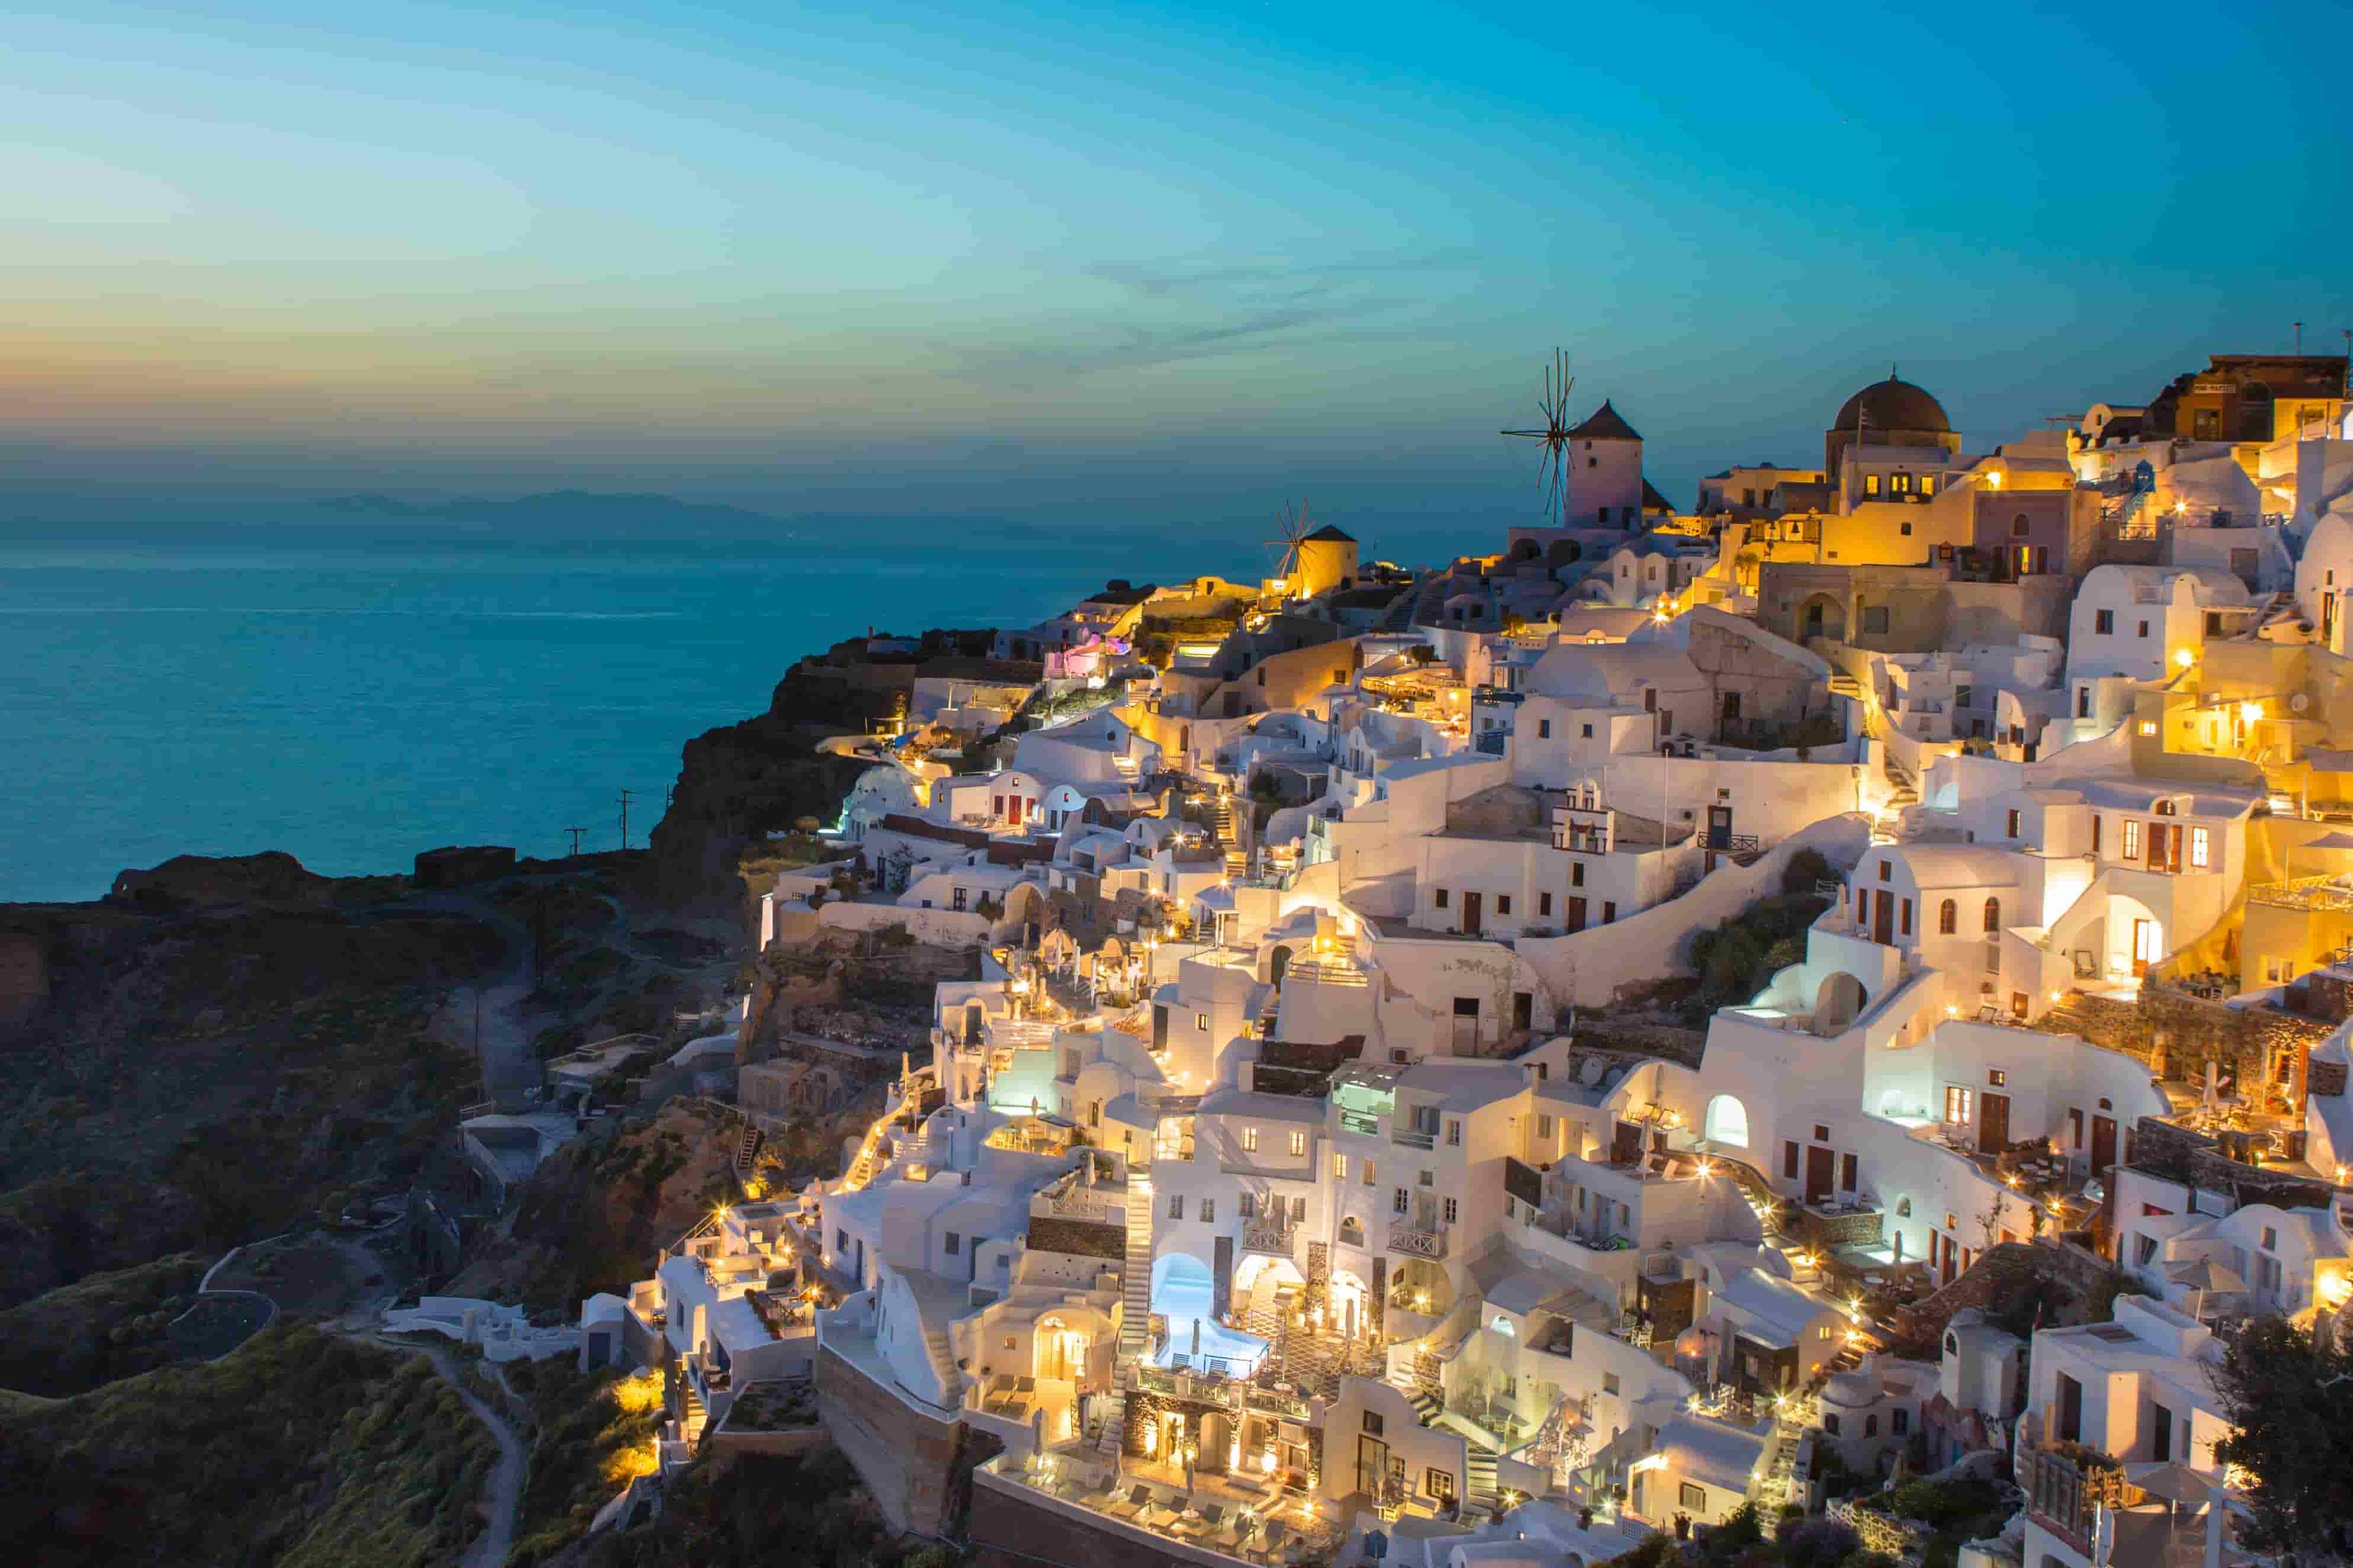
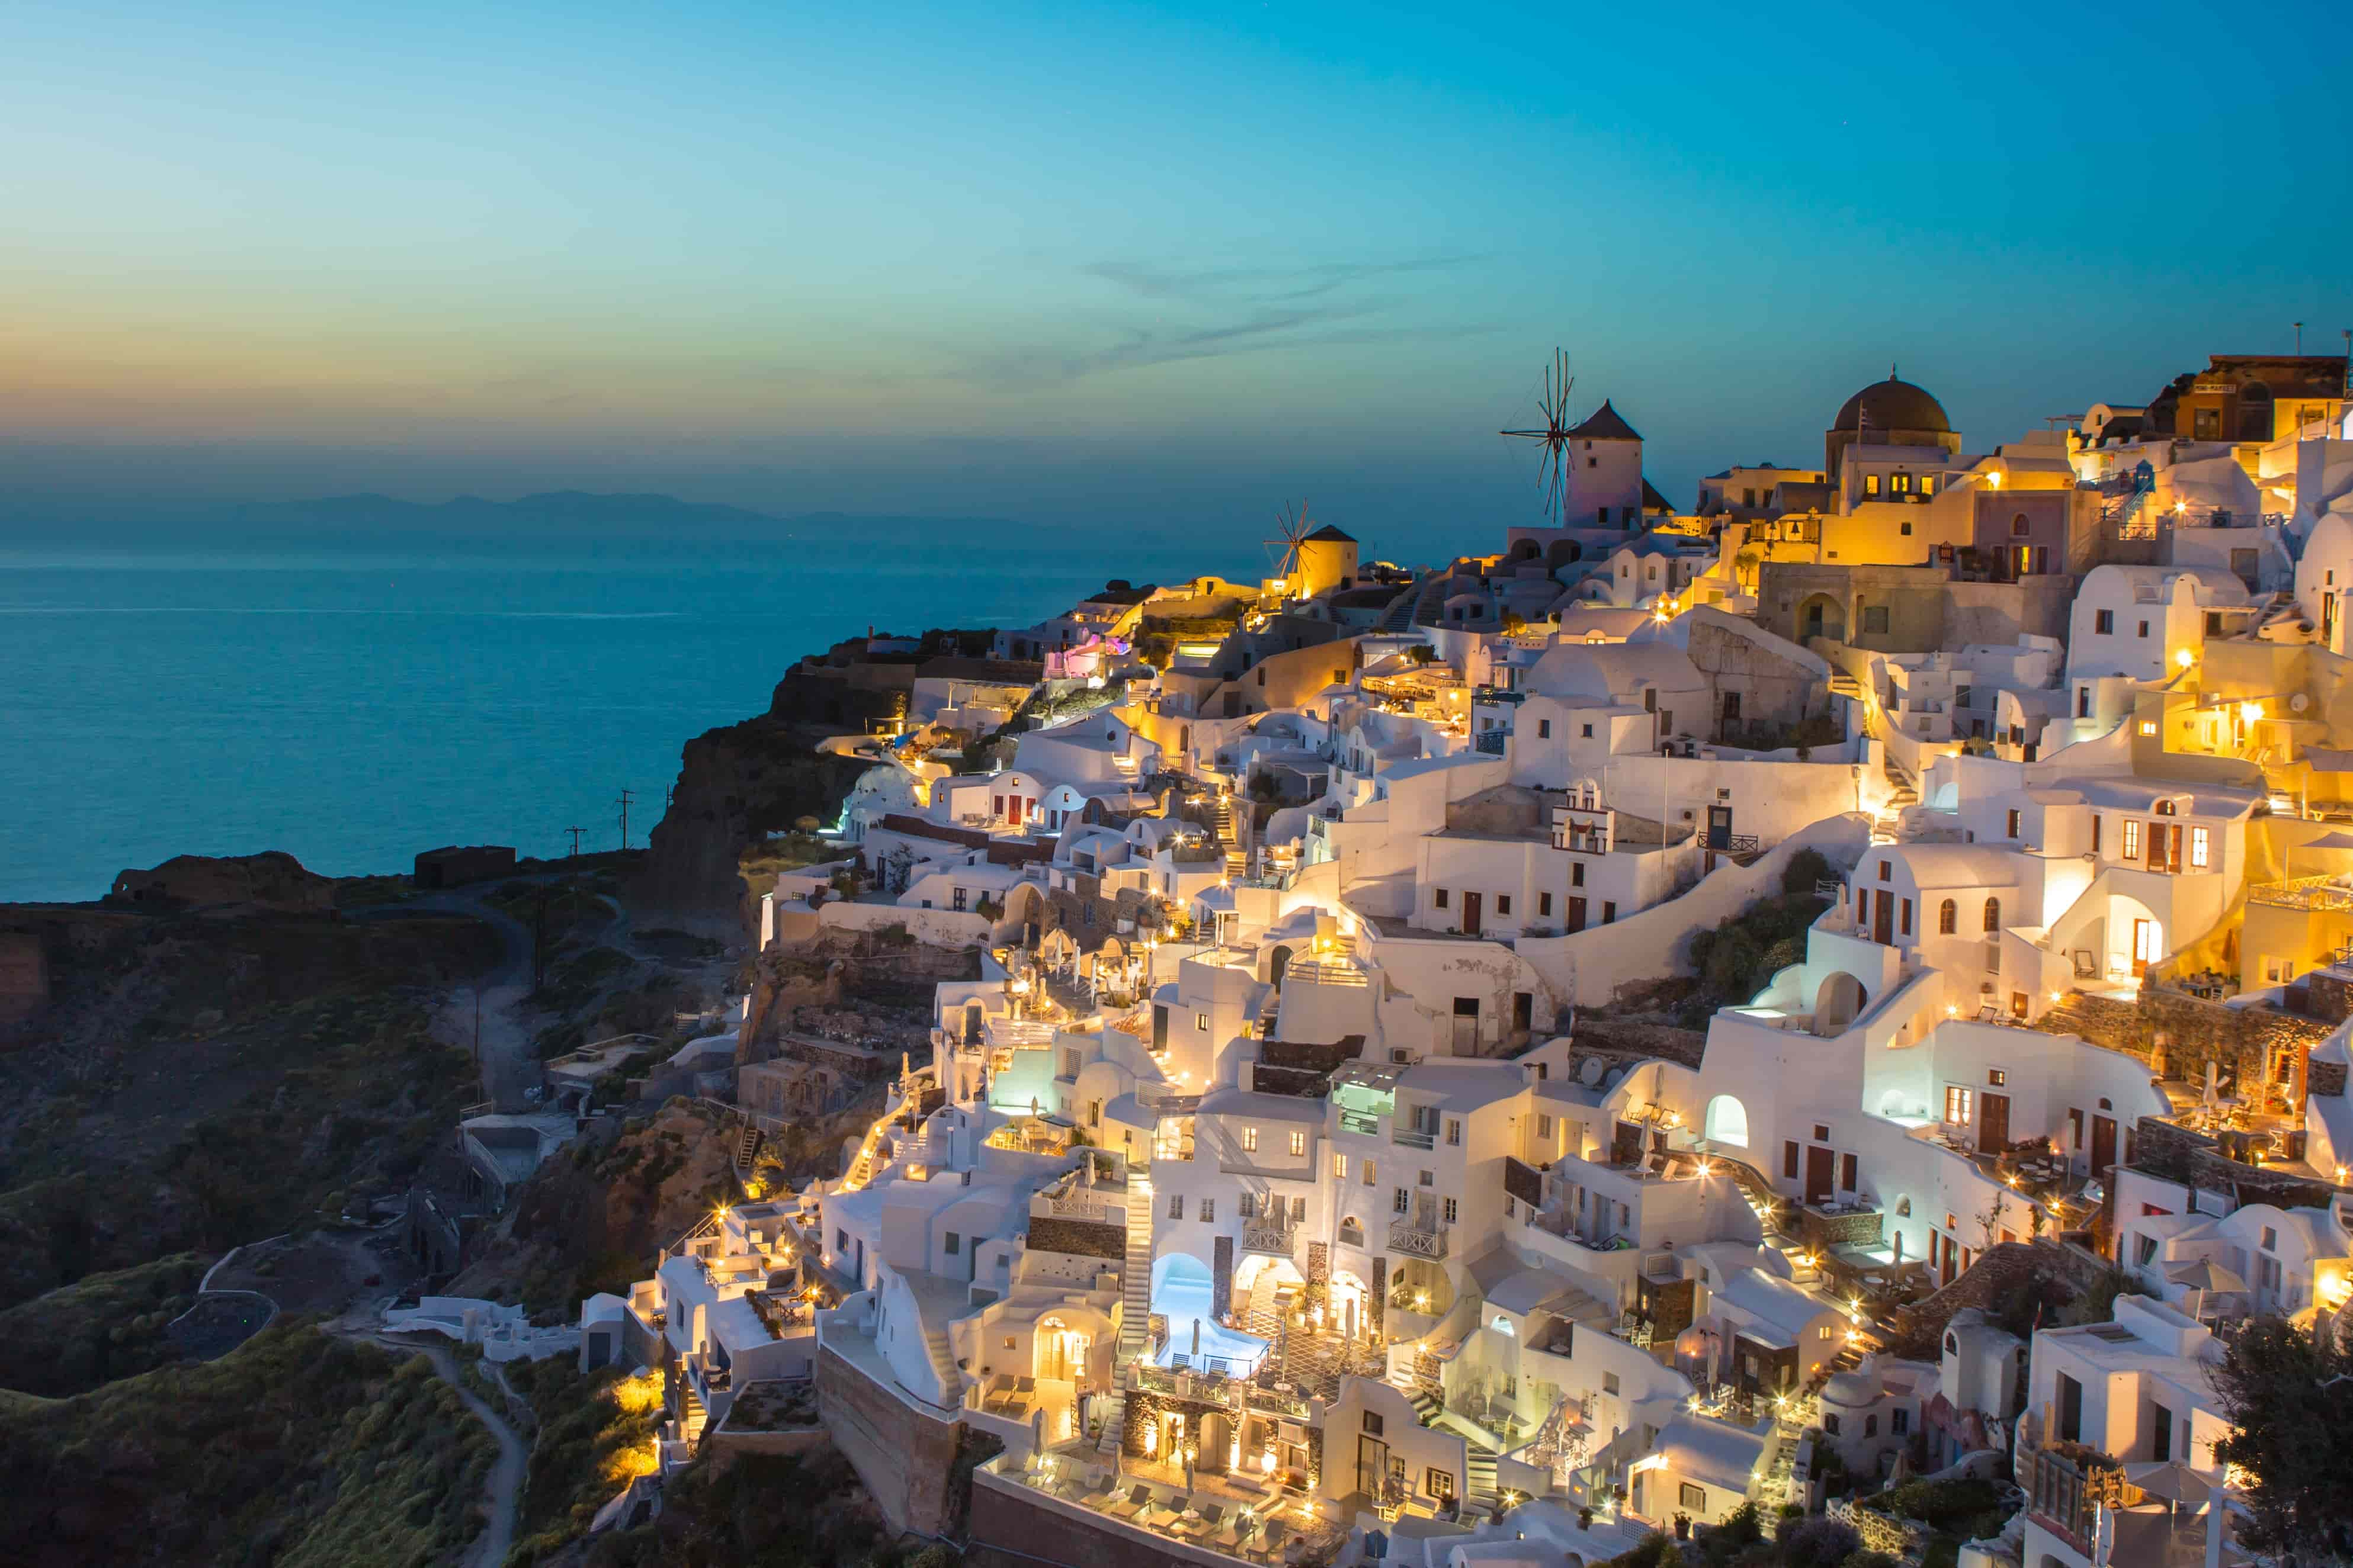
image optimization for carousel, switch to higher resolution when clicked to expand

diff --git a/src/Carousel.js b/src/Carousel.js
@@ -9,10 +9,23 @@ import northernLights from './img/northernLights.jpg'
 import santorini from './img/santorini.jpg'
 import victoriaFalls from './img/victoriaFalls.jpg'
 
+import amazonRainforestMin from './img/min/amazonRainforest-min.jpg'
+import grandCanyonMin from './img/min/grandCanyon-min.jpg'
+import haLongBayMin from './img/min/haLongBay-min.jpg'
+import machuPicchuMin from './img/min/macchuPichu-min.jpg'
+import northernLightsMin from './img/min/northernLights-min.jpg'
+import santoriniMin from './img/min/santorini-min.jpg'
+import victoriaFallsMin from './img/min/victoriaFalls-min.jpg'
+
+
+
 import React, { useState, useEffect } from 'react';
 import ReactDOM from 'react-dom';
 
 const images = [grandCanyon,haLongBay,northernLights,santorini,machuPicchu,amazonRainforest, victoriaFalls]
+
+const imagesMin = [grandCanyonMin,haLongBayMin,northernLightsMin,santoriniMin,machuPicchuMin,amazonRainforestMin, victoriaFallsMin]
+
 const displayNames = ["Grand Canyon", "Ha Long Bay", "Aurora Borealis", "Santorini", "Machu Picchu", "Amazon Rainforest", "Victoria Falls"]
 const countries = ["America", "Vietnam", "Norway", "Greece", "Peru", "Brazil", "Zimbabwe"]
 const averageColors = ["#89807e", "#988b81", "#3b5778", "#788283","#766c67", "#55635c", "#98765a"]
@@ -44,6 +57,15 @@ function Carousel() {
         setHasMoved(false);
         setStartX(e.clientX);
     };
+
+
+    useEffect(() =>{
+        images.forEach((imagePath) => {
+            console.log("preloading");
+            const img = new Image();
+            img.src = imagePath;
+        });
+    }, [])
 
     
     const handleMouseMove = (e) => {
@@ -81,13 +103,14 @@ function Carousel() {
         const background = document.querySelector('.backgroundBlurred');
         const title = document.querySelector('.title');
 
-        background.style.backgroundImage = `url(${images[centeredImageIndex]})`;
+        background.style.backgroundImage = `url(${imagesMin[centeredImageIndex]})`;
         background.style.opacity = 0.5;
         title.style.opacity = 1;
         title.style.left = "14vw";
         title.textContent = displayNames[centeredImageIndex];
 
     };
+
 
     useEffect(() => {
         const background = document.querySelector('.backgroundBlurred');
@@ -209,13 +232,13 @@ function Carousel() {
              onMouseUp={handleMouseUp} onMouseLeave={handleMouseUp} onMouseDown={handleMouseDown} >
             <div className="backgroundBlurred"/>
             <div id = "mainTrack">
-                <img className="carouselImage" src = {grandCanyon} alt = "" draggable= "false" onMouseUp={() => handleImageEntry(0)}/>
-                <img className="carouselImage" src ={haLongBay} alt = "" draggable= "false" onMouseUp={() => handleImageEntry(1)}/>
-                <img className="carouselImage" src ={northernLights} alt = "" draggable= "false"onMouseUp={() => handleImageEntry(2)}/>
-                <img className="carouselImage" src ={santorini} alt = "" draggable= "false"onMouseUp={() => handleImageEntry(3)}/>
-                <img className="carouselImage" src ={machuPicchu} alt = "" draggable= "false"onMouseUp={() => handleImageEntry(4)}/>
-                <img className="carouselImage" src ={amazonRainforest} alt = "" draggable= "false"onMouseUp={() => handleImageEntry(5)}/>
-                <img className="carouselImage" src ={victoriaFalls} alt = "" draggable= "false"onMouseUp={() => handleImageEntry(6)}/>
+                <img className="carouselImage" src = {grandCanyonMin} alt = "" draggable= "false" onMouseUp={() => handleImageEntry(0)}/>
+                <img className="carouselImage" src ={haLongBayMin} alt = "" draggable= "false" onMouseUp={() => handleImageEntry(1)}/>
+                <img className="carouselImage" src ={northernLightsMin} alt = "" draggable= "false"onMouseUp={() => handleImageEntry(2)}/>
+                <img className="carouselImage" src ={santoriniMin} alt = "" draggable= "false"onMouseUp={() => handleImageEntry(3)}/>
+                <img className="carouselImage" src ={machuPicchuMin} alt = "" draggable= "false"onMouseUp={() => handleImageEntry(4)}/>
+                <img className="carouselImage" src ={amazonRainforestMin} alt = "" draggable= "false"onMouseUp={() => handleImageEntry(5)}/>
+                <img className="carouselImage" src ={victoriaFallsMin} alt = "" draggable= "false"onMouseUp={() => handleImageEntry(6)}/>
             </div>
             
             <div className="title"></div>

diff --git a/src/Description.js b/src/Description.js
@@ -23,12 +23,14 @@ const Introductions = [
     "A picturesque jewel in the Aegean Sea, Santorini enchants with its iconic sunsets, unique and beautiful white-washed architecture, " +
     "and stunning seascapes.",
 
-    "Hidden high in the Andes, Machu Picchu beckons with its ancient mystery, rich Incan history, and awe-inspiring panoramic mountain vistas.",
+    "Hidden high in the Andes, Machu Picchu beckons with its ancient mystery, rich Incan history, " +
+    "and awe-inspiring panoramic mountain vistas.",
 
     "Deep within the Amazon Rainforest's lush heart, a symphony of life unfolds, where dense jungle, mighty rivers, " +
     "and vibrant wildlife create a sanctuary of spectacular biodiversity.",
 
-    "Nature's majesty in all its glory, Victoria Falls astounds with its immense water curtain and lush, misty rainforest surroundings."
+    "Nature's majesty in all its glory, Victoria Falls - the world's largest waterfall - astounds with its " +
+    "immense water curtain and lush, misty rainforest surroundings."
 
 ];
 

diff --git a/src/index.js b/src/index.js
@@ -6,9 +6,7 @@ import reportWebVitals from './reportWebVitals';
 
 const root = ReactDOM.createRoot(document.getElementById('root'));
 root.render(
-  <React.StrictMode>
     <App />
-  </React.StrictMode>
 );
 
 // If you want to start measuring performance in your app, pass a function
